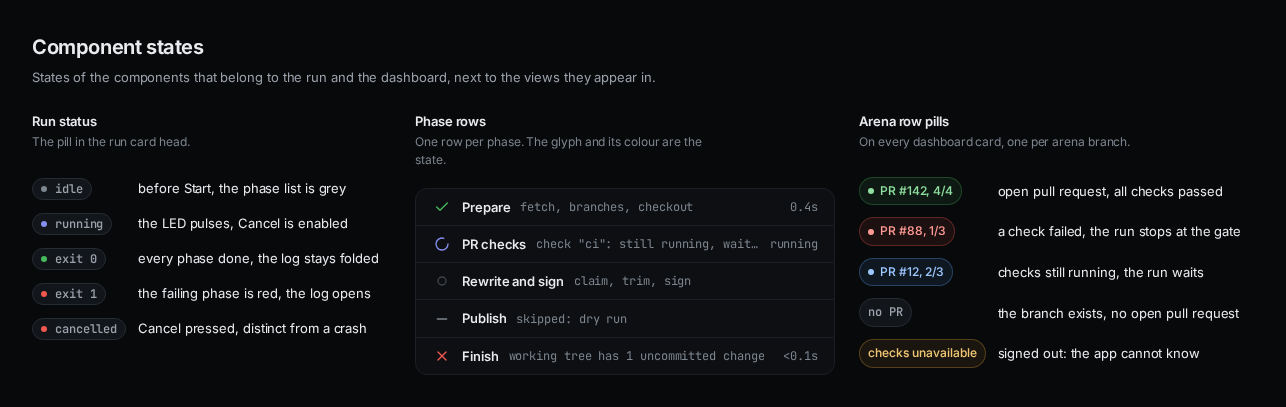
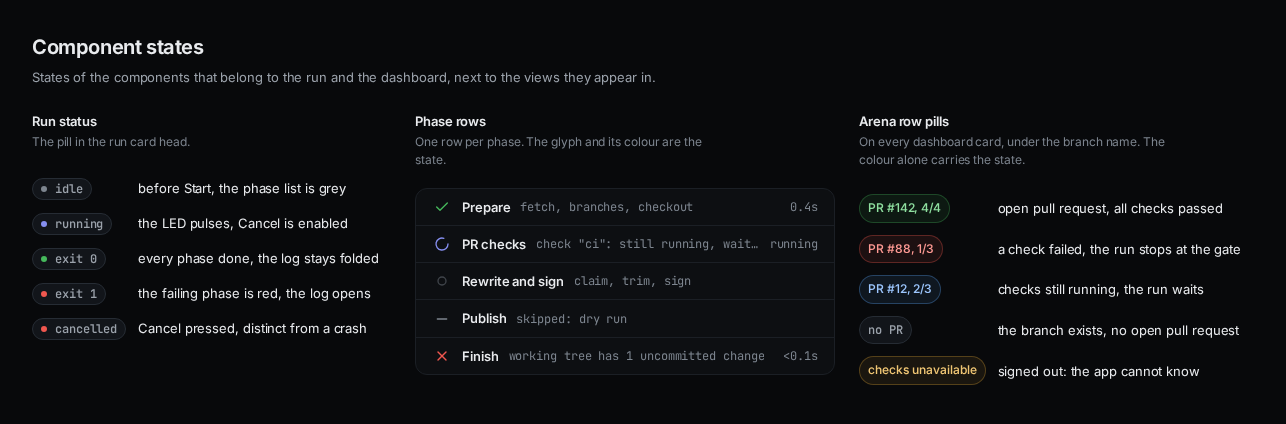
feat(ui): two-line arena rows on a card without dots

diff --git a/ui/static/index.html b/ui/static/index.html
@@ -271,15 +271,15 @@
   .dot { width: 6px; height: 6px; border-radius: 50%; background: currentColor; flex: none; }
 
   .arena-list { display: flex; flex-direction: column; gap: 6px; border-top: 1px solid var(--line); padding-top: 12px; }
-  .arena-row { display: flex; align-items: center; gap: 8px; font-size: var(--fs-2); min-width: 0; flex-wrap: wrap; row-gap: 2px; }
-  /* the name takes the free width, so the pills need no auto margin */
-  .arena-row .bname { flex: 1 1 auto; min-width: 0; font-family: var(--mono); font-size: var(--fs-1); color: var(--text); overflow: hidden; text-overflow: ellipsis; white-space: nowrap; }
+  /* two lines at every width: the name, then the ahead chip and the PR pill */
+  .arena-row { display: flex; flex-direction: column; align-items: stretch; gap: 4px; font-size: var(--fs-2); min-width: 0; }
+  .arena-row .bname { min-width: 0; font-family: var(--mono); font-size: var(--fs-1); color: var(--text); overflow: hidden; text-overflow: ellipsis; white-space: nowrap; }
+  .arena-tail { display: flex; align-items: center; gap: 8px; min-width: 0; }
   /* the checks pill is the link: one control, no orphan "Pull request" label */
   .arena-row .prlink { flex: none; display: inline-flex; align-items: center;
     text-decoration: none; border-radius: 999px; min-height: 24px; }
   .arena-row .prlink:hover .pill { border-color: var(--line-2); }
-  .arena-row > .pill { flex: none; }
-  /* a long arena name keeps its width and pushes the counts onto a second line */
+  .arena-tail > .pill { flex: none; }
   .row-btn.select { flex-wrap: wrap; row-gap: 2px; }
   .row-btn.select .txt { flex: 1 0 auto; max-width: 100%; }
   .row-btn.select .tail { display: inline-flex; gap: 8px; margin-left: auto; }
@@ -1000,7 +1000,6 @@
     const cls = pr.state === "passing" ? "ok" : pr.state === "failing" ? "err" : pr.state === "running" ? "run" : "mono";
     if (pr.state === "none") return el("span", { class: "pill mono" }, `PR #${pr.number}, no checks`);
     return el("span", { class: "pill " + cls, title: pr.title },
-      el("i", { class: "dot" }),
       `PR #${pr.number}`,
       `, ${pr.passed}/${pr.total}`);
   }
@@ -1056,16 +1055,16 @@
         for (const name of s.arena.slice(0, 3)) {
           const pr = (s.pr || {})[name];
           arena.append(el("div", { class: "arena-row" },
-            el("i", { class: "dot", style: `background:${pr ? (pr.state === 'passing' ? 'var(--ok)' : pr.state === 'failing' ? 'var(--err)' : 'var(--info)') : 'var(--line-2)'};margin-left:2px` }),
-            el("span", { class: "bname" }, name),
-            aheadPill((s.ahead || {})[name], s.default),
-            pr && pr.url
-              ? el("a", { class: "prlink", href: pr.url, target: "_blank", rel: "noopener",
-                  title: `Open pull request ${pr.number ? "#" + pr.number : ""} on GitHub`,
-                  "aria-label": `Open pull request ${pr.number ? "#" + pr.number : ""} on GitHub`,
-                  onclick: (e) => e.stopPropagation() },
-                  checksPill(pr, s.pr_checked, s.pr_reason))
-              : checksPill(pr, s.pr_checked, s.pr_reason)));
+            el("span", { class: "bname", title: name }, name),
+            el("div", { class: "arena-tail" },
+              aheadPill((s.ahead || {})[name], s.default),
+              pr && pr.url
+                ? el("a", { class: "prlink", href: pr.url, target: "_blank", rel: "noopener",
+                    title: `Open pull request ${pr.number ? "#" + pr.number : ""} on GitHub`,
+                    "aria-label": `Open pull request ${pr.number ? "#" + pr.number : ""} on GitHub`,
+                    onclick: (e) => e.stopPropagation() },
+                    checksPill(pr, s.pr_checked, s.pr_reason))
+                : checksPill(pr, s.pr_checked, s.pr_reason))));
         }
       }
     }

diff --git a/tests/e2e/test_cards.py b/tests/e2e/test_cards.py
@@ -1,0 +1,40 @@
+"""The arena row on a repo card: two lines at every width, no dots (docs/design.md)."""
+
+from __future__ import annotations
+
+import pytest
+
+from scripts.walk import Walker
+
+pytestmark = pytest.mark.e2e
+
+CARD = ".repo-card:has-text('shop-web')"
+TOP = "e => e.getBoundingClientRect().top"
+LEFT = "e => e.getBoundingClientRect().left"
+
+
+def row_geometry(walker: Walker) -> tuple[float, float, float, float]:
+  page = walker.page
+  page.wait_for_selector(f"{CARD} .arena-row .arena-tail .pill")
+  name_top = page.eval_on_selector(f"{CARD} .arena-row .bname", TOP)
+  tail_top = page.eval_on_selector(f"{CARD} .arena-row .arena-tail", TOP)
+  name_left = page.eval_on_selector(f"{CARD} .arena-row .bname", LEFT)
+  tail_left = page.eval_on_selector(f"{CARD} .arena-row .arena-tail", LEFT)
+  return name_top, tail_top, name_left, tail_left
+
+
+def test_the_desktop_card_row_puts_the_pills_under_the_name(desktop: Walker) -> None:
+  desktop.goto(1200)
+  name_top, tail_top, name_left, tail_left = row_geometry(desktop)
+  assert tail_top > name_top
+  assert tail_left == name_left
+  assert desktop.count(f"{CARD} .arena-row .dot") == 0
+  assert desktop.count(f"{CARD} .arena-tail .pill") >= 2
+
+
+def test_the_phone_card_row_keeps_the_two_lines(phone: Walker) -> None:
+  phone.goto(1200)
+  name_top, tail_top, name_left, tail_left = row_geometry(phone)
+  assert tail_top > name_top
+  assert tail_left == name_left
+  assert phone.count(f"{CARD} .arena-row .dot") == 0

diff --git a/scripts/design_boards.py b/scripts/design_boards.py
@@ -473,9 +473,9 @@ def states_board(_: dict[str, bytes]) -> str:
   )
   pr_pills = (
     '<table class="sheet">'
-    f"<tr><td>{pill('ok', 'PR #142, 4/4')}</td><td>open pull request, all checks passed</td></tr>"
-    f"<tr><td>{pill('err', 'PR #88, 1/3')}</td><td>a check failed, the run stops at the gate</td></tr>"
-    f"<tr><td>{pill('run', 'PR #12, 2/3')}</td><td>checks still running, the run waits</td></tr>"
+    f"<tr><td>{pill('ok', 'PR #142, 4/4', dot=False)}</td><td>open pull request, all checks passed</td></tr>"
+    f"<tr><td>{pill('err', 'PR #88, 1/3', dot=False)}</td><td>a check failed, the run stops at the gate</td></tr>"
+    f"<tr><td>{pill('run', 'PR #12, 2/3', dot=False)}</td><td>checks still running, the run waits</td></tr>"
     f"<tr><td>{pill('mono', 'no PR', dot=False)}</td><td>the branch exists, no open pull request</td></tr>"
     f"<tr><td>{pill('warn', 'checks unavailable', dot=False)}</td><td>signed out: the app cannot know</td></tr>"
     "</table>"
@@ -489,7 +489,9 @@ def states_board(_: dict[str, bytes]) -> str:
       phases,
     )
     + frame(
-      "Arena row pills", "On every dashboard card, one per arena branch.", pr_pills
+      "Arena row pills",
+      "On every dashboard card, under the branch name. The colour alone carries the state.",
+      pr_pills,
     )
     + "</div>"
   )

diff --git a/docs/design.md b/docs/design.md
@@ -27,7 +27,7 @@ The one design record for the arena-cleanup web app. The sections follow the nem
 
 ## Screens and states
 
-- Dashboard: add bar, repo cards. Empty: a hint with the add command. Error: a banner above the cards. A card shows the branch. Each arena row carries `↑ N`, the commits that branch holds beyond `origin/<default>`, with a tooltip. The Remove X sits top right as a bare glyph. A red frame comes on hover, on press, and while armed.
+- Dashboard: add bar, repo cards. Empty: a hint with the add command. Error: a banner above the cards. A card shows the branch. Each arena row has two lines at every width: the branch name, then `↑ N` and the PR pill. `↑ N` counts the commits that branch holds beyond `origin/<default>`, with a tooltip. No dot sits before the name or in the PR pill, the pill colour carries the state. The Remove X sits top right as a bare glyph. A red frame comes on hover, on press, and while armed.
 - Repo: a 320 px sidebar, options card, and run card. The run card holds the phase list and the open log of the latest run. The options card folds from its head. Closed, the head shows the branch pill and what differs from the defaults. Each option is one row: label, control, and a trailing action or readout. No hint texts. Dry Run, Ignore PR Checks, Keep Empty Commits, Update Tags (checked by default), and Force Push are checkboxes. PR check timeout is a slider with the number beside it. It snaps to 0, 5, 10, 15, 20, 30, 45, 60, 90, or 120 minutes. Target branch lists the default branch first and never an `arena/*` branch. Arena branch appears with two or more arena branches, newest tip first. Each option reads `branch · day`, and the full stamp sits in its title. The chosen one goes to the run as `--arena`. The sidebar holds the repo facts and the arena rows on top. The commit list fills the rest and scrolls on its own. Each row shows hash, subject, author, and date. Reload sits in its label. Each arena row shows the PR state and is a button that selects the branch to pull from. The page runs the full flow only. `strip` is a CLI command. Browse under Remove paths opens the HEAD tree of the clone, one level per request. A click on a row or its plus adds the chip. Log rows show the clock of the browser. Remove on a card arms on the first click and deletes the URL clone on the second. States: idle, running, done, failed, cancelled. A managed clone goes back to origin before every run. The server fetches, checks out the default branch, resets hard, and drops local `arena/*` copies.
 - Settings: Identity (name, email, Save), GitHub sign-in and credential helper, signing cards, Claimed commits (two chip lists, Save). Below: About. Signing cards: gpg banner when gpg is missing, key list, create card, GitHub key steps. Disabled: Create key while gpg is missing. Error: the banner names the failed check. Each card loads on its own.
 - Offline: the service worker serves the shell. Data requests fail with the normal error banner.
@@ -151,3 +151,4 @@ The one design record for the arena-cleanup web app. The sections follow the nem
 - Accepted 2026-10-23: a commit subject wraps to two lines, then an ellipsis. The row is a button, and a tap shows the whole subject on a phone without hover.
 - Accepted 2026-10-23: the log of the latest run stays open under the phase list. Show log goes, and Copy log is a glyph button. An empty log reads `No run yet.`
 - Accepted 2026-10-23: three icon size tokens at every width, 14, 16, and 18 px. The glyphs no longer follow the text size. That rule left most of them at 12 or 13 px on a desktop.
+- Accepted 2026-10-23: the arena row on a card is two lines at every width, the name first. The dots before the name and in the PR pill are gone, the pill colour is the signal.

diff --git a/CHANGELOG.md b/CHANGELOG.md
@@ -17,6 +17,7 @@ and the project uses [Semantic Versioning](https://semver.org/spec/v2.0.0.html).
 
 - The run card keeps the log of the latest run open under the phase list. The Show log toggle is gone, and Copy log is a glyph button with an accessible name.
 - Icons follow three size tokens at every width. Inline glyphs are 14 px, buttons, phase rows, tree rows, and banners 16 px, and icon buttons 18 px. Most glyphs were 12 or 13 px.
+- The arena row on a repo card is two lines at every width. The branch name sits on the first line, the ahead chip and the PR pill on the second. The dots before the name and in the PR pill are gone.
 
 ### Fixed
 
